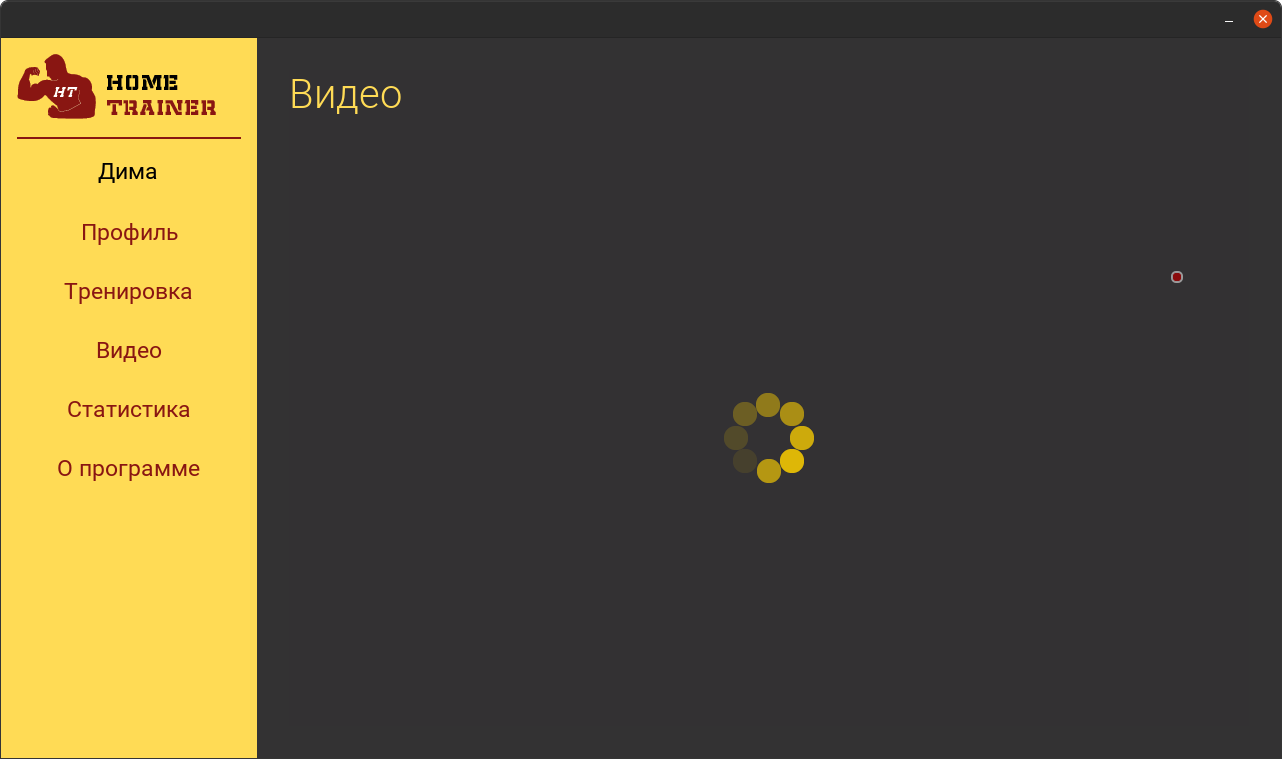
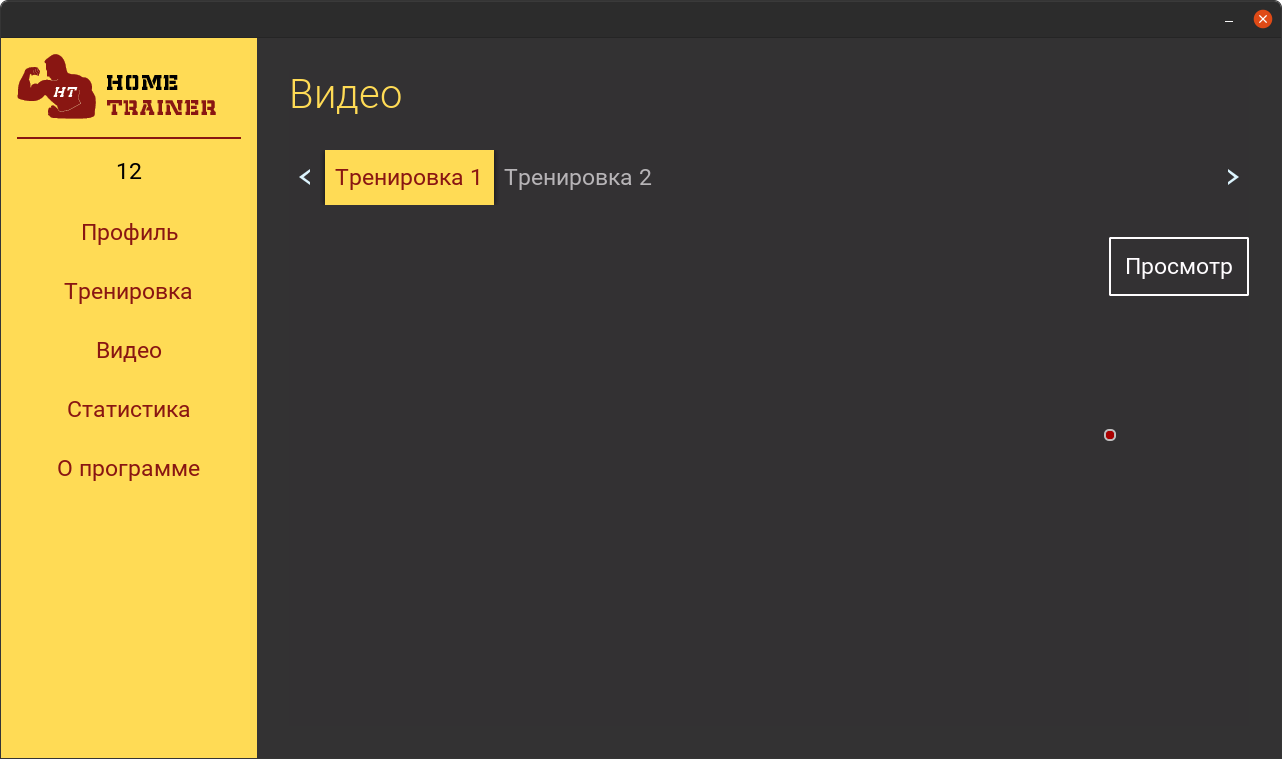
update

diff --git a/Video.qml b/Video.qml
@@ -7,23 +7,67 @@
 
 Rectangle {
 
-    signal playerStopped;
-
-    focus: true;
-
     TitleText {
         id: header;
         color: engine.colors.headerText;
         text: tr("Видео");
     }
-    VideoPlayer {
-        id: htPlayer;
 
+    Chooser {
+        id: videoChooser;     
+        
         anchors.top: header.bottom;
         anchors.topMargin: engine.margin;
         anchors.left: parent.left;
         anchors.right: parent.right;
-        anchors.bottom: parent.bottom;
+        
+        backgroundVisible: false;
+        textColor: engine.colors.textColor;
+        focusTextColor: engine.colors.focusText;
+        highlightColor: activeFocus ? engine.colors.focusBackground : engine.colors.textColor;
+
+        model: ListModel { }
+
+        onKeyPressed: {        
+            if (key == "Up" || key == "Down") {
+                buttonOK.setFocus();
+                return true;
+            }              
+        }
+        onCompleted: {
+            engine.loadVideoList(this);
+        }
+    }
+    Button {
+        id: buttonOK;
+
+        anchors.top: videoChooser.bottom;
+        anchors.right: parent.right;  
+        anchors.topMargin: engine.margin;
+
+        text: tr("Просмотр");
+        color: activeFocus ? engine.colors.focusBackground : engine.colors.background;
+        textColor: activeFocus ? engine.colors.focusText : engine.colors.textColor;
+        borderColor: textColor;
+        borderWidth: 2;
+
+        onSelectPressed: {
+            htPlayer.visible = true;
+            htPlayer.title = engine.videoItems[videoChooser.currentIndex].title;
+            htPlayer.playVideoById(engine.videoItems[videoChooser.currentIndex].url);
+        }
+        onKeyPressed: {        
+            if (key == "Up" || key == "Down") {
+                videoChooser.setFocus();
+                return true;
+            }                 
+        }
+    }
+
+    VideoPlayer {
+        id: htPlayer;
+
+        anchors.fill: mainWindow;
 
         visible: false;
 
@@ -31,21 +75,20 @@ Rectangle {
             this.abort();
             this.visible = false;
             log("hide");
-            parent.playerStopped();
+            videoChooser.setFocus();
         }
 
         onFinished: {
             this.visible = false;
             log("hide");
-            parent.playerStopped();
+            videoChooser.setFocus();
         }
     }
 
     onActiveFocusChanged: {
         if(this.activeFocus) {
-            htPlayer.visible = true;
-            htPlayer.title = engine.videos[0].title;
-            htPlayer.playVideoById(engine.videos[0].url);
+            videoChooser.currentIndex = 0;
+            videoChooser.setFocus();
         }
     }
 }

diff --git a/js/engine.js b/js/engine.js
@@ -78,6 +78,14 @@ this.loadExerciseList = (list) => {
     });    
 }
 
+//video
+this.loadVideoList = (list) => {
+    var model = list.model;
+    this.videoItems.forEach(function (item) {
+        model.append( { text: tr(item.title)} );
+    });
+}
+
 //notificator
 this.isNeedTraining = () => {
     return this.dateToString(new Date()) != this.results.lastDate;
@@ -315,12 +323,12 @@ this.genderItems;
 this.levelItems;
 this.exerciseItems;
 this.notifications;
-this.videos;
+this.videoItems;
 this.loadData = (data) => {
     this.menuItems = data["menu"];
     this.genderItems = data["genders"];
     this.levelItems = data["levels"];
     this.exerciseItems = data["exercises"];
     this.notifications = data["notifications"];
-    this.videos = data["videos"];
+    this.videoItems = data["videos"];
 }

diff --git a/main.qml b/main.qml
@@ -122,9 +122,6 @@ Application {
             anchors.fill: parent;
             color: parent.color;
             property var tag: "video";
-            onPlayerStopped: {
-                sidebar.setFocus();
-            }
             onBackPressed: {
                 sidebar.setFocus();
             }
